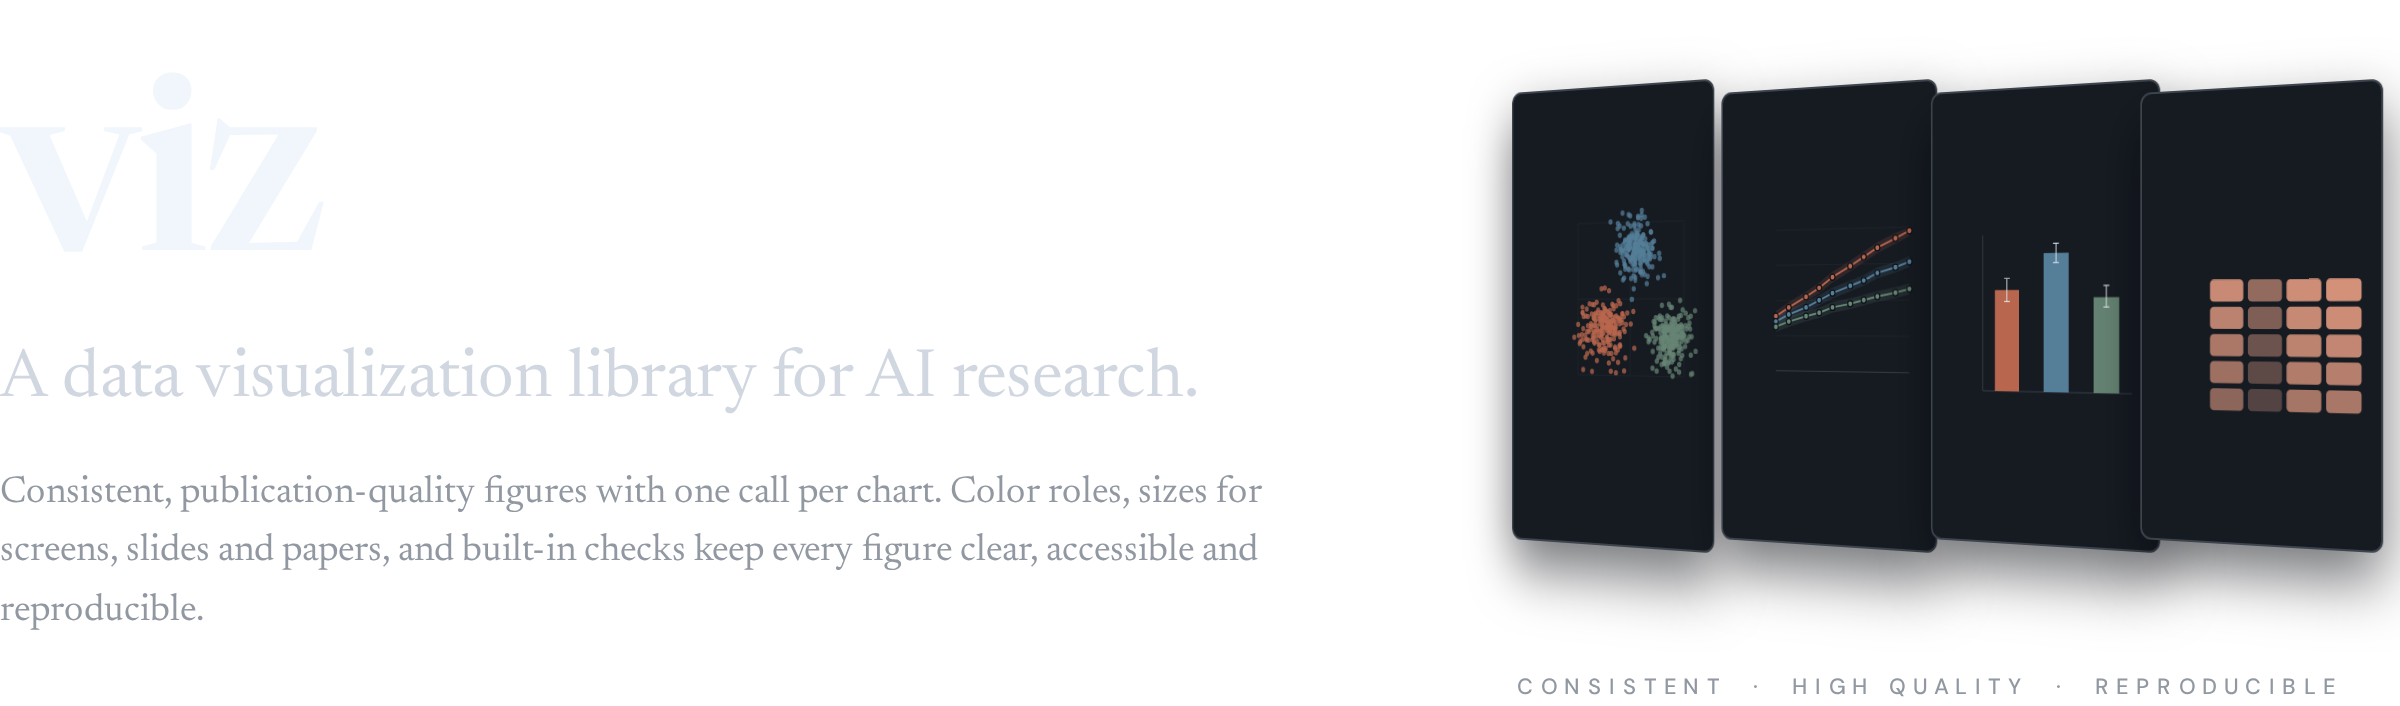
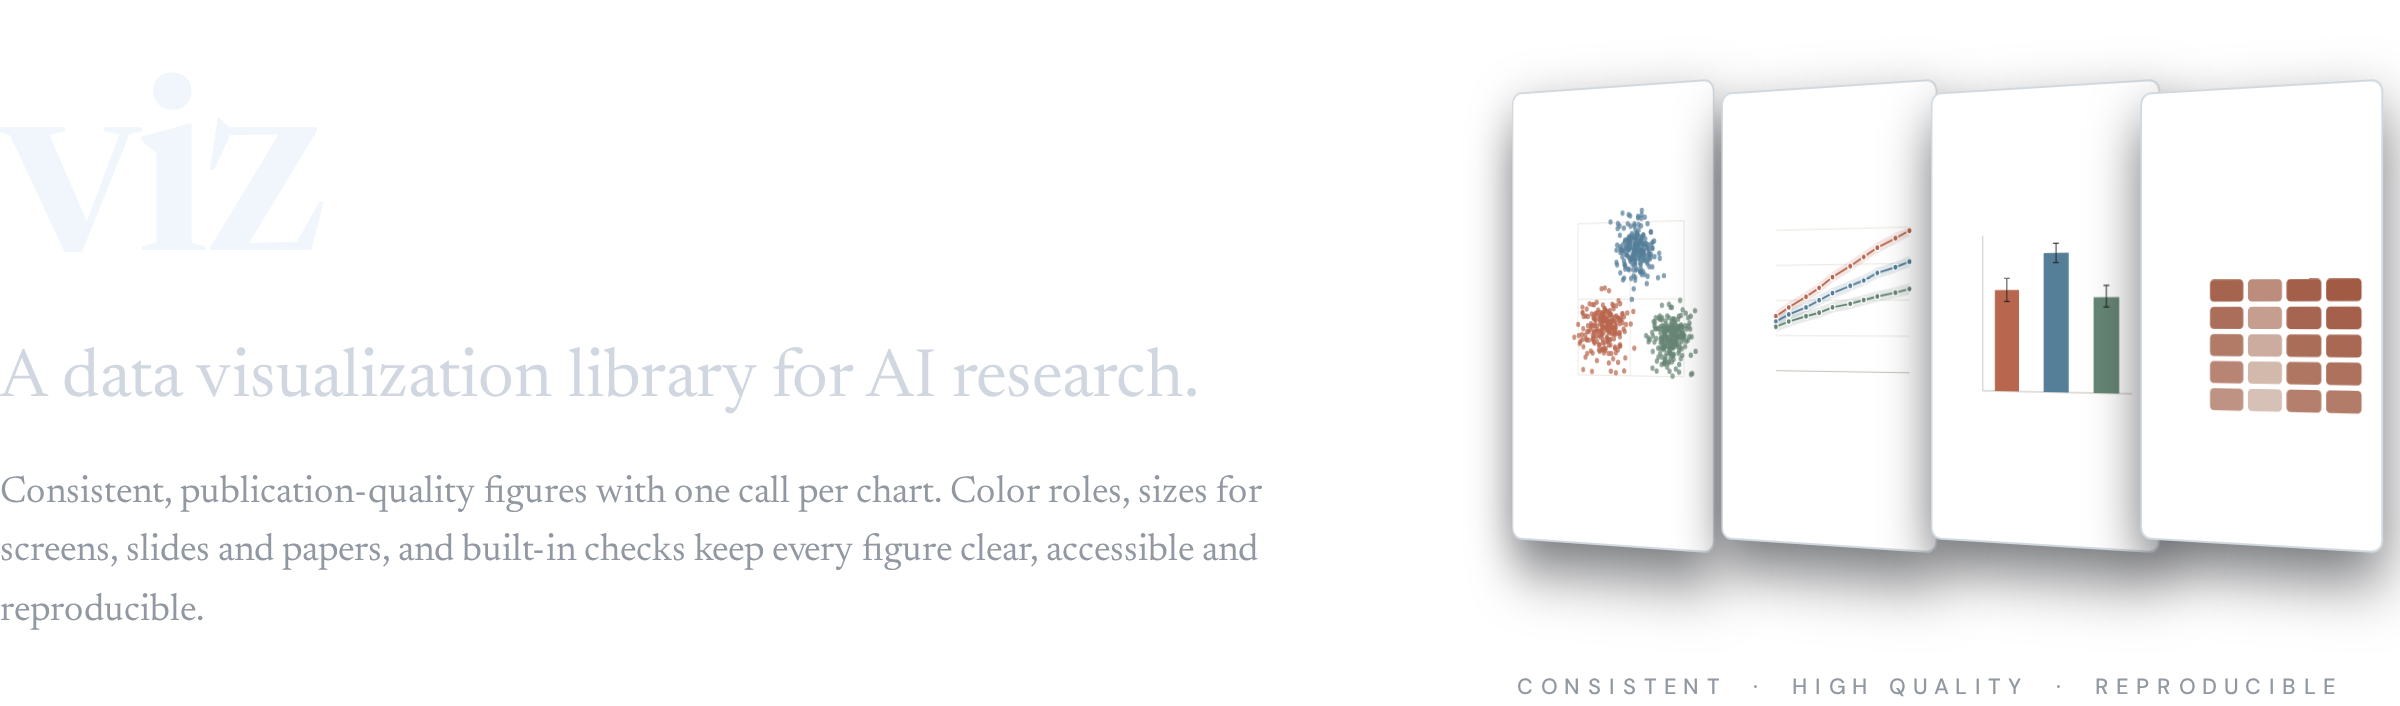
README: figures stay white in both modes; only the page around them switches

Changed region(s): [[0.625, 0.0935, 1.0, 0.779]]

diff --git a/docs/readme/build.py b/docs/readme/build.py
@@ -61,17 +61,17 @@ def examples(width: float, thumb: bool = False) -> dict[str, viz.Figure]:
 
 # ---------------------------------------------------------------------------------------------- page pieces
 
-# Every image has a see-through background and comes in two copies, so it sits on GitHub's page like text does: the
-# README's <picture> tags show the light copy on the white page and the copy in dark/ on the dark one (#0D1117). The
-# colors are GitHub's own text, border and button colors in each mode.
+# The figures stay white in both of GitHub's modes, on white cards; only the text, buttons and icons around them
+# change. Every image has a see-through background, and the ones with page text come in two copies: the README's
+# <picture> tags show the light copy on the white page and the copy in dark/ on the dark one (#0D1117). The colors
+# are GitHub's own text, border and button colors in each mode.
 THEMES = {
-    "light": {"ink": "#1F2328", "ink2": "#33302B", "muted": "#59636E", "card": "#FFFFFF", "border": "#D1D9E0",
-              "shadow": "0 14px 30px rgba(31,35,40,.10)",
+    "light": {"ink": "#1F2328", "ink2": "#33302B", "muted": "#59636E", "shadow": "0 14px 30px rgba(31,35,40,.10)",
               "primary": ("#1F2328", "#FFFFFF", "#1F2328"), "secondary": ("#F6F8FA", "#1F2328", "#D1D9E0")},
-    "dark": {"ink": "#F0F6FC", "ink2": "#D1D7E0", "muted": "#9198A1", "card": "#161B22", "border": "#3D444D",
-             "shadow": "0 14px 30px rgba(1,4,9,.55)",
+    "dark": {"ink": "#F0F6FC", "ink2": "#D1D7E0", "muted": "#9198A1", "shadow": "0 14px 30px rgba(1,4,9,.55)",
              "primary": ("#F0F6FC", "#0D1117", "#F0F6FC"), "secondary": ("#212830", "#F0F6FC", "#3D444D")},
 }
+CARD, BORDER, CARD_INK = "#FFFFFF", "#D1D9E0", "#1F2328"
 SERIF, SANS = "Newsreader, Georgia, serif", "'DM Sans', Helvetica, Arial, sans-serif"
 
 
@@ -88,7 +88,7 @@ def hero(t: dict) -> str:
 .left p{{font:400 19px/1.55 {SERIF};color:{t["muted"]};margin:0}}
 .right{{width:470px;display:flex;flex-direction:column;align-items:center}}
 .fan{{display:flex;perspective:1200px;height:300px;align-items:center;padding-left:30px}}
-.card{{width:132px;height:228px;background:{t["card"]};border:1px solid {t["border"]};border-radius:6px;
+.card{{width:132px;height:228px;background:{CARD};border:1px solid {BORDER};border-radius:6px;
   box-shadow:{t["shadow"]};transform:rotateY(-34deg);margin-left:-26px;overflow:hidden;
   display:flex;align-items:center;justify-content:center}}
 .card svg{{width:100%;height:auto}}
@@ -109,15 +109,15 @@ def hero(t: dict) -> str:
 </div>"""
 
 
-def row(t: dict) -> str:
+def row() -> str:
     figs = examples(236)
     cards = "".join(f'<div class="ex"><div class="h">{name}</div>{fig.svg(background=False)}</div>'
                     for name, fig in figs.items())
     return f"""
 <style>
 .row{{display:grid;grid-template-columns:repeat(4,1fr);gap:16px;padding:2px}}
-.ex{{border:1px solid {t["border"]};border-radius:10px;padding:18px 12px 8px}}
-.ex .h{{font:400 21px/1.2 {SERIF};color:{t["ink"]};margin:0 0 4px 10px}}
+.ex{{border:1px solid {BORDER};border-radius:10px;padding:18px 12px 8px;background:{CARD}}}
+.ex .h{{font:400 21px/1.2 {SERIF};color:{CARD_INK};margin:0 0 4px 10px}}
 .ex svg{{width:100%;height:auto;display:block}}
 </style>
 <div class="row">{cards}</div>"""
@@ -139,12 +139,11 @@ ICONS = {  # 24 x 24 line icons, drawn here so the README needs no icon font
 
 
 def main() -> None:
+    render_html(row(), OUT / "examples.png", 1200, transparent=True)  # white cards only: one copy serves both modes
     for theme, t in THEMES.items():
-        out = OUT if theme == "light" else OUT / "dark"  # the dark copy: the same file in dark/, as the gallery's
+        out = OUT if theme == "light" else OUT / "dark"  # the dark copy: the same file in dark/
         out.mkdir(exist_ok=True)
-        viz.set_defaults(theme=theme)  # the figures inside take the page's theme too
         render_html(hero(t), out / "hero.png", 1200, transparent=True)
-        render_html(row(t), out / "examples.png", 1200, transparent=True)
         render_html(button("Get started &nbsp;→", t["primary"]), out / "get-started.png", 400, fit=True,
                     transparent=True)
         render_html(button("View examples", t["secondary"]), out / "view-examples.png", 400, fit=True,
@@ -153,7 +152,6 @@ def main() -> None:
             (out / f"icon-{name}.svg").write_text(
                 f'<svg xmlns="http://www.w3.org/2000/svg" width="28" height="28" viewBox="0 0 24 24" fill="none" '
                 f'stroke="{t["ink"]}" stroke-width="1.4" stroke-linecap="round" stroke-linejoin="round">{paths}</svg>\n')
-    viz.set_defaults(theme="light")
     for p in sorted(OUT.glob("**/*.png")):
         print(p)
 

diff --git a/src/viz/gallery.py b/src/viz/gallery.py
@@ -222,26 +222,18 @@ def build(out: Path, only: list[str] | None = None) -> list[Path]:
     return written
 
 
-def picture(src: str, alt: str = "", extra: str = "") -> str:
-    """An image GitHub swaps for its dark-theme copy in dark mode: the same file in a dark/ folder beside it."""
-    dark = f"{src.rsplit('/', 1)[0]}/dark/{src.rsplit('/', 1)[1]}" if "/" in src else f"dark/{src}"
-    return (f'<picture><source media="(prefers-color-scheme: dark)" srcset="{dark}">'
-            f'<img src="{src}" alt="{alt}"{" " + extra if extra else ""}></picture>')
-
-
 def examples() -> str:
     """examples/README.md: each gallery figure's code beside the image it makes, generated from this file."""
     import ast
     src = Path(__file__).read_text()
     tree = ast.parse(src)
     shared = {t.id for n in tree.body if isinstance(n, ast.Assign) for t in n.targets if isinstance(t, ast.Name)}
-    shared |= {n.name for n in tree.body if isinstance(n, ast.FunctionDef)} - {"figures", "build", "picture", "examples"}
+    shared |= {n.name for n in tree.body if isinstance(n, ast.FunctionDef)} - {"figures", "build", "examples"}
     fn = next(n for n in tree.body if isinstance(n, ast.FunctionDef) and n.name == "figures")
     out = ["# viz examples", "",
            "Every gallery figure with the code that makes it. Every number is made up, and error bars and bands are 95%",
-           "intervals. Run one with `uv run --with-editable \"$(viz path)\" python ex.py`. In dark mode the images show",
-           "the dark theme, `viz.set_defaults(theme=\"dark\")`. This page is generated from `src/viz/gallery.py`",
-           "(`viz gallery --examples examples/README.md`), so edit that file, not this one.", ""]
+           "intervals. Run one with `uv run --with-editable \"$(viz path)\" python ex.py`. This page is generated from",
+           "`src/viz/gallery.py` (`viz gallery --examples examples/README.md`), so edit that file, not this one.", ""]
     pending: list[ast.stmt] = []
     for stmt in fn.body:
         target = stmt.targets[0] if isinstance(stmt, ast.Assign) else None
@@ -259,7 +251,7 @@ def examples() -> str:
         lines += [code(s) for s in pending]
         lines.append(f'{code(stmt.value)}.save("{name}.png")')
         num, title = name.split("_", 1)
-        out += [f"## {int(num)}. {ABOUT[name]}", "", picture(f"../docs/gallery/{name}.png", title), "", "```python",
+        out += [f"## {int(num)}. {ABOUT[name]}", "", f"![{title}](../docs/gallery/{name}.png)", "", "```python",
                 *lines, "```", ""]
         pending = []
     out += ["## No Python: a JSON spec", "", "A list of specs makes several figures; each takes the same keys as the",

diff --git a/README.md b/README.md
@@ -5,10 +5,7 @@
 
 <a href="#install"><picture><source media="(prefers-color-scheme: dark)" srcset="docs/readme/dark/get-started.png"><img src="docs/readme/get-started.png" alt="Get started" height="42"></picture></a>&nbsp;&nbsp;<a href="examples/README.md"><picture><source media="(prefers-color-scheme: dark)" srcset="docs/readme/dark/view-examples.png"><img src="docs/readme/view-examples.png" alt="View examples" height="42"></picture></a>
 
-<picture>
-  <source media="(prefers-color-scheme: dark)" srcset="docs/readme/dark/examples.png">
-  <img src="docs/readme/examples.png" alt="Four example figures: accuracy against compute for three model sizes on a log axis; win rates for helpful, harmless and honest with intervals; three clusters of points on two principal components; a heatmap of five models on four benchmarks." width="100%">
-</picture>
+<img src="docs/readme/examples.png" alt="Four example figures: accuracy against compute for three model sizes on a log axis; win rates for helpful, harmless and honest with intervals; three clusters of points on two principal components; a heatmap of five models on four benchmarks." width="100%">
 
 ## Why viz?
 
@@ -32,7 +29,7 @@ viz.hbar({"Closed book": 41.0, "Search snippets": 63.5, "Full documents": 88.0},
          title="Full documents raised correct answers from 41% to 88%").save("fig.png")
 ```
 
-<picture><source media="(prefers-color-scheme: dark)" srcset="docs/gallery/dark/01_hbar.png"><img src="docs/gallery/01_hbar.png" alt="Full documents raised correct answers from 41% to 88%"></picture>
+![Full documents raised correct answers from 41% to 88%](docs/gallery/01_hbar.png)
 
 Every chart returns a `Figure`. `.save()` picks the format from the extension:
 
@@ -160,7 +157,7 @@ For a write-up, use `frame="blog"`. It gives a centered serif title and subtitle
 
 For a dark page, such as slides or a dark-mode doc, `viz.set_defaults(theme="dark")` (or `viz --theme dark ...`)
 draws light text on GitHub's dark gray, #0D1117. The five intervention colors stay the same, the grays dim, and the
-ordered ramp runs from dim to bright. This README's images switch to it in dark mode.
+ordered ramp runs from dim to bright.
 
 ## Colors
 
@@ -198,7 +195,7 @@ Without roles, several series take orange, blue, sage, purple and ochre, in that
 Heatmaps use the sequential scales `blue`, `coral`, `sage` and `green`, or `diverging`. `viz colors` prints all
 of this, and `viz colors -o colors.png` draws the card below.
 
-<picture><source media="(prefers-color-scheme: dark)" srcset="docs/dark/colors.png"><img src="docs/colors.png" alt="The color roles as seen with normal vision, protanopia, deuteranopia and tritanopia"></picture>
+![The color roles as seen with normal vision, protanopia, deuteranopia and tritanopia](docs/colors.png)
 
 ## Accessibility
 
@@ -272,14 +269,14 @@ Every number in these figures is made up. Error bars and bands are 95% intervals
 
 | | |
 |---|---|
-| <picture><source media="(prefers-color-scheme: dark)" srcset="docs/gallery/dark/01_hbar.png"><img src="docs/gallery/01_hbar.png" alt="Full documents raised correct answers from 41% to 88%"></picture> | <picture><source media="(prefers-color-scheme: dark)" srcset="docs/gallery/dark/02_bars.png"><img src="docs/gallery/02_bars.png" alt="Search cut wrong answers for all ten models"></picture> |
-| <picture><source media="(prefers-color-scheme: dark)" srcset="docs/gallery/dark/03_bars_runs.png"><img src="docs/gallery/03_bars_runs.png" alt="Worked examples cut wrong answers from 34% to 19% in every run"></picture> | <picture><source media="(prefers-color-scheme: dark)" srcset="docs/gallery/dark/04_dotplot.png"><img src="docs/gallery/04_dotplot.png" alt="Search cut each model's wrong answers by 8 to 46 points"></picture> |
-| <picture><source media="(prefers-color-scheme: dark)" srcset="docs/gallery/dark/05_line_runs.png"><img src="docs/gallery/05_line_runs.png" alt="Worked examples cut wrong answers from 31% to 18% during training"></picture> | <picture><source media="(prefers-color-scheme: dark)" srcset="docs/gallery/dark/06_panels.png"><img src="docs/gallery/06_panels.png" alt="Search cut wrong answers more than better prompts or a bigger model"></picture> |
-| <picture><source media="(prefers-color-scheme: dark)" srcset="docs/gallery/dark/07_heatmap.png"><img src="docs/gallery/07_heatmap.png" alt="Three of eight models finished most of the huge tasks"></picture> | <picture><source media="(prefers-color-scheme: dark)" srcset="docs/gallery/dark/08_scatter.png"><img src="docs/gallery/08_scatter.png" alt="Datasets with more questions about recent events drew more searches"></picture> |
-| <picture><source media="(prefers-color-scheme: dark)" srcset="docs/gallery/dark/09_dumbbell.png"><img src="docs/gallery/09_dumbbell.png" alt="Every rated model got higher helpfulness ratings with search"></picture> | <picture><source media="(prefers-color-scheme: dark)" srcset="docs/gallery/dark/10_stacked.png"><img src="docs/gallery/10_stacked.png" alt="With search, wrong answers fell from 59% to 12%"></picture> |
-| <picture><source media="(prefers-color-scheme: dark)" srcset="docs/gallery/dark/11_histogram.png"><img src="docs/gallery/11_histogram.png" alt="With search, the median answer grew from 84 to 150 words"></picture> | <picture><source media="(prefers-color-scheme: dark)" srcset="docs/gallery/dark/12_box.png"><img src="docs/gallery/12_box.png" alt="Full documents raised the median answer time from 2.9 to 9.2 seconds"></picture> |
-| <picture><source media="(prefers-color-scheme: dark)" srcset="docs/gallery/dark/13_strip.png"><img src="docs/gallery/13_strip.png" alt="Search cut wrong answers from 28% to 8% for the average topic"></picture> | <picture><source media="(prefers-color-scheme: dark)" srcset="docs/gallery/dark/14_quotes.png"><img src="docs/gallery/14_quotes.png" alt="The trained model narrowed the problem down instead of listing causes"></picture> |
-| <picture><source media="(prefers-color-scheme: dark)" srcset="docs/gallery/dark/15_episodes.png"><img src="docs/gallery/15_episodes.png" alt="With search, the model checked the release notes instead of guessing"></picture> | |
+| ![Full documents raised correct answers from 41% to 88%](docs/gallery/01_hbar.png) | ![Search cut wrong answers for all ten models](docs/gallery/02_bars.png) |
+| ![Worked examples cut wrong answers from 34% to 19% in every run](docs/gallery/03_bars_runs.png) | ![Search cut each model's wrong answers by 8 to 46 points](docs/gallery/04_dotplot.png) |
+| ![Worked examples cut wrong answers from 31% to 18% during training](docs/gallery/05_line_runs.png) | ![Search cut wrong answers more than better prompts or a bigger model](docs/gallery/06_panels.png) |
+| ![Three of eight models finished most of the huge tasks](docs/gallery/07_heatmap.png) | ![Datasets with more questions about recent events drew more searches](docs/gallery/08_scatter.png) |
+| ![Every rated model got higher helpfulness ratings with search](docs/gallery/09_dumbbell.png) | ![With search, wrong answers fell from 59% to 12%](docs/gallery/10_stacked.png) |
+| ![With search, the median answer grew from 84 to 150 words](docs/gallery/11_histogram.png) | ![Full documents raised the median answer time from 2.9 to 9.2 seconds](docs/gallery/12_box.png) |
+| ![Search cut wrong answers from 28% to 8% for the average topic](docs/gallery/13_strip.png) | ![The trained model narrowed the problem down instead of listing causes](docs/gallery/14_quotes.png) |
+| ![With search, the model checked the release notes instead of guessing](docs/gallery/15_episodes.png) | |
 
 The source for every gallery figure is in `src/viz/gallery.py`, and [examples/README.md](examples/README.md) shows each one's code beside its image. Copy the closest one and change the numbers.
 

diff --git a/examples/README.md b/examples/README.md
@@ -1,13 +1,12 @@
 # viz examples
 
 Every gallery figure with the code that makes it. Every number is made up, and error bars and bands are 95%
-intervals. Run one with `uv run --with-editable "$(viz path)" python ex.py`. In dark mode the images show
-the dark theme, `viz.set_defaults(theme="dark")`. This page is generated from `src/viz/gallery.py`
-(`viz gallery --examples examples/README.md`), so edit that file, not this one.
+intervals. Run one with `uv run --with-editable "$(viz path)" python ex.py`. This page is generated from
+`src/viz/gallery.py` (`viz gallery --examples examples/README.md`), so edit that file, not this one.
 
 ## 1. Rates by condition, the baseline and the intervention named by role
 
-<picture><source media="(prefers-color-scheme: dark)" srcset="../docs/gallery/dark/01_hbar.png"><img src="../docs/gallery/01_hbar.png" alt="hbar"></picture>
+![hbar](../docs/gallery/01_hbar.png)
 
 ```python
 import viz
@@ -21,7 +20,7 @@ viz.hbar(
 
 ## 2. Each model with and without the intervention
 
-<picture><source media="(prefers-color-scheme: dark)" srcset="../docs/gallery/dark/02_bars.png"><img src="../docs/gallery/02_bars.png" alt="bars"></picture>
+![bars](../docs/gallery/02_bars.png)
 
 ```python
 import viz
@@ -35,7 +34,7 @@ viz.bars(
 
 ## 3. The mean over runs, with every run as a dot
 
-<picture><source media="(prefers-color-scheme: dark)" srcset="../docs/gallery/dark/03_bars_runs.png"><img src="../docs/gallery/03_bars_runs.png" alt="bars_runs"></picture>
+![bars_runs](../docs/gallery/03_bars_runs.png)
 
 ```python
 import viz
@@ -50,7 +49,7 @@ viz.bars(
 
 ## 4. An effect and its interval for each model, against zero
 
-<picture><source media="(prefers-color-scheme: dark)" srcset="../docs/gallery/dark/04_dotplot.png"><img src="../docs/gallery/04_dotplot.png" alt="dotplot"></picture>
+![dotplot](../docs/gallery/04_dotplot.png)
 
 ```python
 import viz
@@ -65,7 +64,7 @@ viz.dotplot(
 
 ## 5. A training curve, with every run faint behind the mean
 
-<picture><source media="(prefers-color-scheme: dark)" srcset="../docs/gallery/dark/05_line_runs.png"><img src="../docs/gallery/05_line_runs.png" alt="line_runs"></picture>
+![line_runs](../docs/gallery/05_line_runs.png)
 
 ```python
 import viz
@@ -79,7 +78,7 @@ viz.line(
 
 ## 6. Several comparisons that share one legend
 
-<picture><source media="(prefers-color-scheme: dark)" srcset="../docs/gallery/dark/06_panels.png"><img src="../docs/gallery/06_panels.png" alt="panels"></picture>
+![panels](../docs/gallery/06_panels.png)
 
 ```python
 import viz
@@ -108,7 +107,7 @@ viz.panels([
 
 ## 7. Models by conditions
 
-<picture><source media="(prefers-color-scheme: dark)" srcset="../docs/gallery/dark/07_heatmap.png"><img src="../docs/gallery/07_heatmap.png" alt="heatmap"></picture>
+![heatmap](../docs/gallery/07_heatmap.png)
 
 ```python
 import viz
@@ -121,7 +120,7 @@ viz.heatmap(
 
 ## 8. One dot per dataset, against a reference line
 
-<picture><source media="(prefers-color-scheme: dark)" srcset="../docs/gallery/dark/08_scatter.png"><img src="../docs/gallery/08_scatter.png" alt="scatter"></picture>
+![scatter](../docs/gallery/08_scatter.png)
 
 ```python
 import viz
@@ -138,7 +137,7 @@ viz.scatter(
 
 ## 9. Before and after for each model
 
-<picture><source media="(prefers-color-scheme: dark)" srcset="../docs/gallery/dark/09_dumbbell.png"><img src="../docs/gallery/09_dumbbell.png" alt="dumbbell"></picture>
+![dumbbell](../docs/gallery/09_dumbbell.png)
 
 ```python
 import viz
@@ -152,7 +151,7 @@ viz.dumbbell(
 
 ## 10. Where the outcomes went (coral is the bad outcome)
 
-<picture><source media="(prefers-color-scheme: dark)" srcset="../docs/gallery/dark/10_stacked.png"><img src="../docs/gallery/10_stacked.png" alt="stacked"></picture>
+![stacked](../docs/gallery/10_stacked.png)
 
 ```python
 import viz
@@ -165,7 +164,7 @@ viz.stacked(
 
 ## 11. Two distributions overlaid
 
-<picture><source media="(prefers-color-scheme: dark)" srcset="../docs/gallery/dark/11_histogram.png"><img src="../docs/gallery/11_histogram.png" alt="histogram"></picture>
+![histogram](../docs/gallery/11_histogram.png)
 
 ```python
 import viz
@@ -178,7 +177,7 @@ viz.histogram(
 
 ## 12. Distributions per condition, for many items each
 
-<picture><source media="(prefers-color-scheme: dark)" srcset="../docs/gallery/dark/12_box.png"><img src="../docs/gallery/12_box.png" alt="box"></picture>
+![box](../docs/gallery/12_box.png)
 
 ```python
 import viz
@@ -191,7 +190,7 @@ viz.box(
 
 ## 13. One dot per item, with the mean and its interval
 
-<picture><source media="(prefers-color-scheme: dark)" srcset="../docs/gallery/dark/13_strip.png"><img src="../docs/gallery/13_strip.png" alt="strip"></picture>
+![strip](../docs/gallery/13_strip.png)
 
 ```python
 import viz
@@ -205,7 +204,7 @@ viz.strip(
 
 ## 14. One prompt and contrasting replies
 
-<picture><source media="(prefers-color-scheme: dark)" srcset="../docs/gallery/dark/14_quotes.png"><img src="../docs/gallery/14_quotes.png" alt="quotes"></picture>
+![quotes](../docs/gallery/14_quotes.png)
 
 ```python
 import viz
@@ -224,7 +223,7 @@ viz.quotes(
 
 ## 15. What the model did, transcripts side by side
 
-<picture><source media="(prefers-color-scheme: dark)" srcset="../docs/gallery/dark/15_episodes.png"><img src="../docs/gallery/15_episodes.png" alt="episodes"></picture>
+![episodes](../docs/gallery/15_episodes.png)
 
 ```python
 import viz

diff --git a/claude/skills/viz/SKILL.md b/claude/skills/viz/SKILL.md
@@ -51,8 +51,7 @@ Each has a gallery figure (`docs/gallery/NN_*.png`); copy its code from `src/viz
 
 The default size, `screen`, fits posts, Discord and artifacts. For a paper pass `size="paper"` (full text width)
 or `size="column"` and save a `.pdf`; for a talk, `size="slide"` gives a 16:9 slide. One size per write-up:
-`viz.set_defaults(size="paper")`. Titles must fit on one line at the chosen size. For a dark page (dark slides or
-docs), `viz.set_defaults(theme="dark")` draws light text on #0D1117; keep the default white otherwise.
+`viz.set_defaults(size="paper")`. Titles must fit on one line at the chosen size.
 
 ## Colors
 
